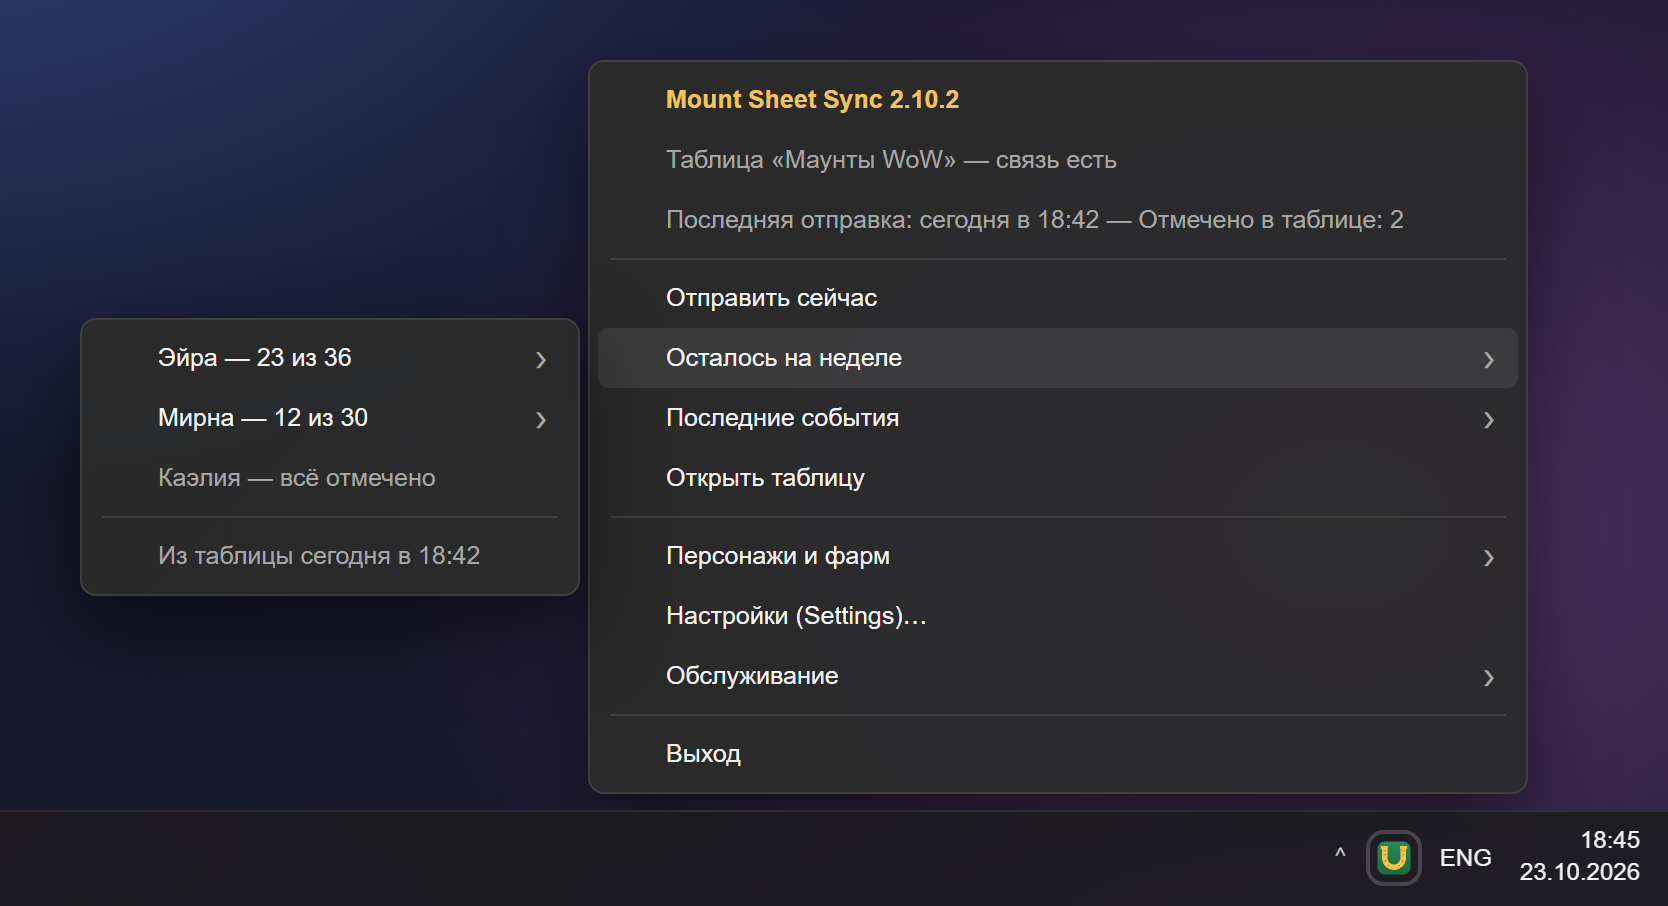
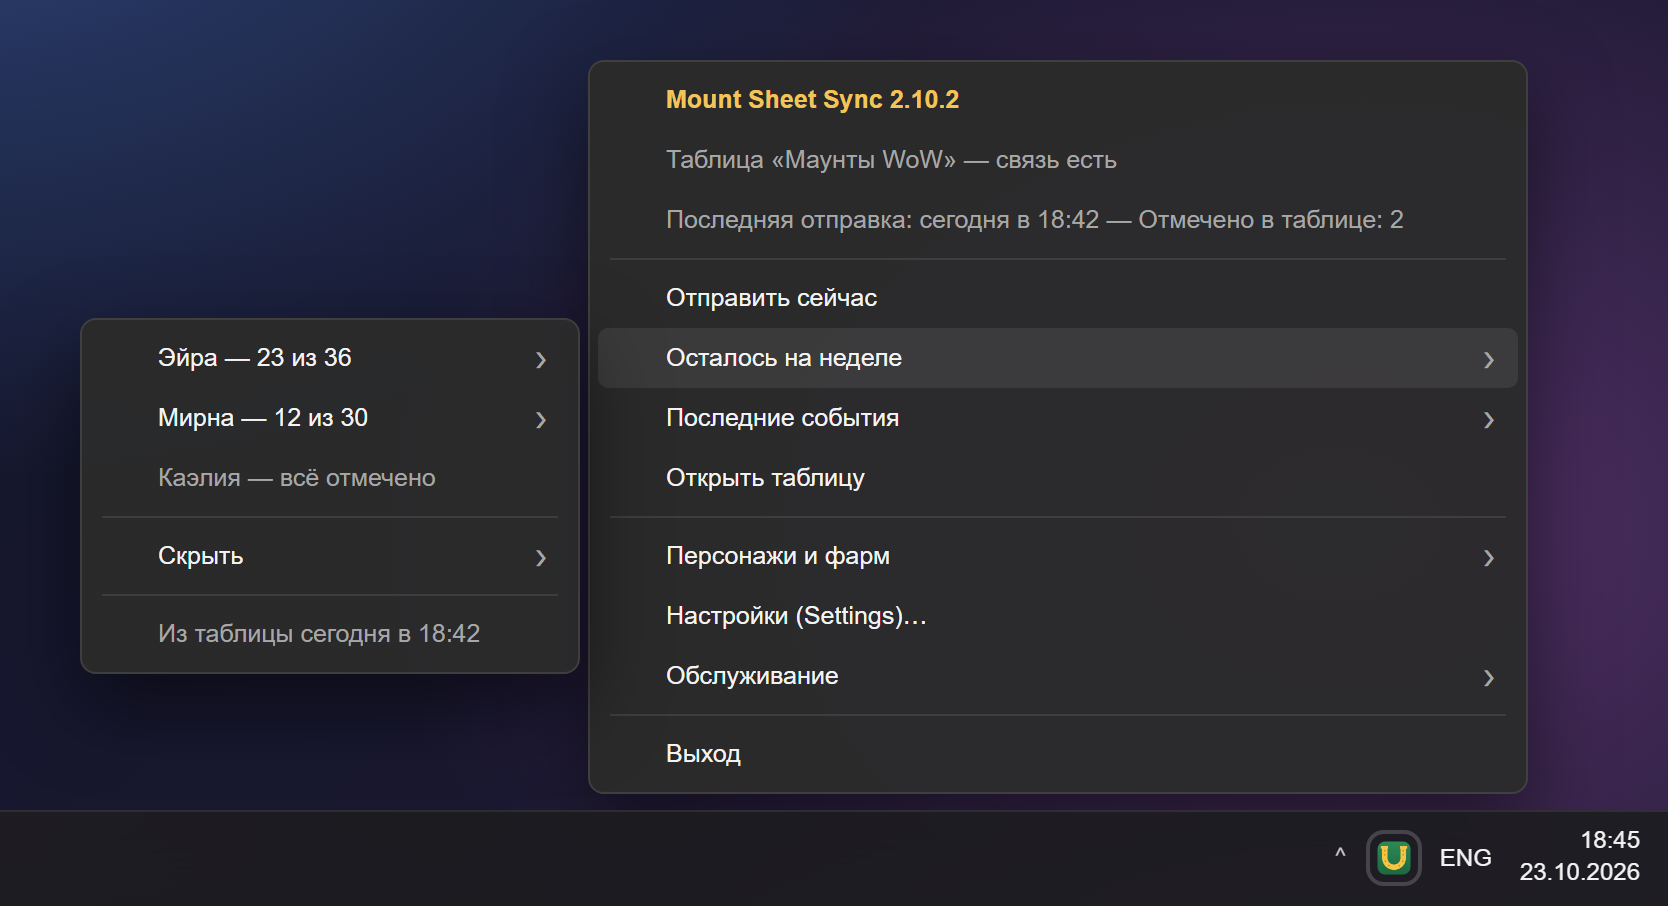
Picture of the tray menu: Hide in Remaining this week, as in the program

Changed region(s): [[0.0312, 0.5872, 0.3429, 0.7108]]

diff --git a/tools/screens/program.py b/tools/screens/program.py
@@ -100,7 +100,7 @@ def menu_html(w, h):
         ("", "Выход"),
     ]
     sub = [("sub", "Эйра — 23 из 36"), ("sub", "Мирна — 12 из 30"), ("dis", "Каэлия — всё отмечено"), ("sep", None),
-           ("dis", "Из таблицы сегодня в 18:42")]
+           ("sub", "Скрыть"), ("sep", None), ("dis", "Из таблицы сегодня в 18:42")]
 
     def render(items):
         out = []
